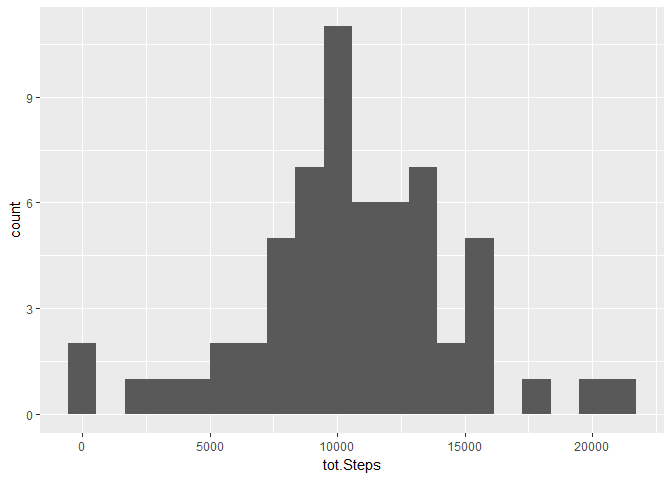
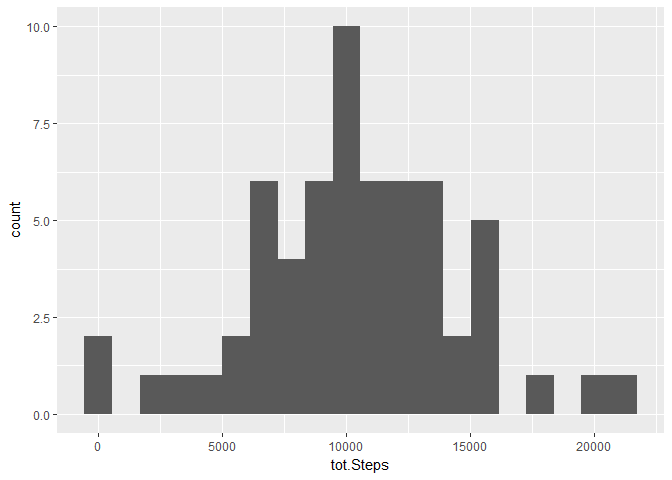
peer graded assignment1

diff --git a/PA1_template.html b/PA1_template.html
@@ -228,17 +228,17 @@ Histogram:</p>
 <pre class="r"><code>step_hist &lt;- ggplot(nAct_day, aes(tot.Steps)) + geom_histogram(bins= 20)
 
 step_hist</code></pre>
[2 lines of base64/hex data omitted]
 <p>Mean:</p>
 <pre class="r"><code>mean.nAct &lt;- mean(nAct_day$tot.Steps)
 
 mean.nAct</code></pre>
-<pre><code>## [1] 10606.03</code></pre>
+<pre><code>## [1] 10323.11</code></pre>
 <p>Median:</p>
 <pre class="r"><code>med.nAct &lt;- median(nAct_day$tot.Steps)
 
 med.nAct</code></pre>
-<pre><code>## [1] 10520</code></pre>
+<pre><code>## [1] 10395</code></pre>
 <p><strong>Do these values differ from the estimates from the first part of the assignment? What is the impact of imputing missing data on the estimates of the total daily number of steps?</strong><br />
 Before and after imputation:</p>
 <pre class="r"><code>m.step &lt;- matrix(nrow=2, ncol=2, 
@@ -253,7 +253,7 @@ m.step[2,2] &lt;- med.nAct
 m.step</code></pre>
 <pre><code>##              mean median
 ## Original 10766.19  10765
-## Imputed  10606.03  10520</code></pre>
+## Imputed  10323.11  10395</code></pre>
 <p>There is a slight difference between the original and the imputed data. Mean and median vary according to the values created by the “mice” package. The feature of “mice” is powerful to understand the pattern of missing data that it is one of good ways to avoid introducing bias. I believe, by imputing missing values, it prevents reductions in efficiency and makes the analysis of data easier.</p>
 </div>
 <div id="are-there-differences-in-activity-patterns-between-weekdays-and-weekends" class="section level2">
@@ -278,12 +278,18 @@ iend &lt;- data.table(iend %&gt;% mutate(type = 'Weekend'))
 comb &lt;- rbind(iday, iend)</code></pre>
 <p><strong>2. Make a panel plot containing a time series plot (i.e. type = “l”) of the 5-minute interval (x-axis) and the average number of steps taken, averaged across all weekday days or weekend days (y-axis). See the README file in the GitHub repository to see an example of what this plot should look like using simulated data.</strong><br />
 Compare average steps for every interval on weekdays and weekend:</p>
-<pre class="r"><code>compare &lt;- ggplot(comb, aes(interval, mean.step, color = type)) + 
+<pre class="r"><code>compare1 &lt;- ggplot(comb, aes(interval, mean.step, color = type)) + 
        geom_line(stat = 'identity') +
        facet_grid(type~.)
 
-compare</code></pre>
[1 lines of base64/hex data omitted]
+compare1</code></pre>
[1 lines of base64/hex data omitted]
+<p>Duplicate the plots on a same panel:</p>
+<pre class="r"><code>compare2 &lt;- ggplot(comb, aes(interval, mean.step, color = type)) + 
+       geom_line(stat = 'identity')
+
+compare2</code></pre>
[1 lines of base64/hex data omitted]
 </div>
 
 

diff --git a/PA1_template.md b/PA1_template.md
@@ -200,7 +200,7 @@ mean.nAct
 ```
 
 ```
-## [1] 10606.03
+## [1] 10323.11
 ```
 
 Median:
@@ -212,7 +212,7 @@ med.nAct
 ```
 
 ```
-## [1] 10520
+## [1] 10395
 ```
 
 
@@ -235,7 +235,7 @@ m.step
 ```
 ##              mean median
 ## Original 10766.19  10765
-## Imputed  10606.03  10520
+## Imputed  10323.11  10395
 ```
 
 There is a slight difference between the original and the imputed data. Mean and median vary according to the values created by the "mice" package. The feature of "mice" is powerful to understand the pattern of missing data that it is one of good ways to avoid introducing bias. I believe, by imputing missing values, it prevents reductions in efficiency and makes the analysis of data easier.
@@ -268,15 +268,25 @@ comb <- rbind(iday, iend)
 Compare average steps for every interval on weekdays and weekend:
 
 ```r
-compare <- ggplot(comb, aes(interval, mean.step, color = type)) + 
+compare1 <- ggplot(comb, aes(interval, mean.step, color = type)) + 
        geom_line(stat = 'identity') +
        facet_grid(type~.)
 
-compare
+compare1
 ```
 
 ![](PA1_template_files/figure-html/unnamed-chunk-21-1.png)<!-- -->
 
+Duplicate the plots on a same panel:
+
+```r
+compare2 <- ggplot(comb, aes(interval, mean.step, color = type)) + 
+       geom_line(stat = 'identity')
+
+compare2
+```
+
+![](PA1_template_files/figure-html/unnamed-chunk-22-1.png)<!-- -->
 
 
 
